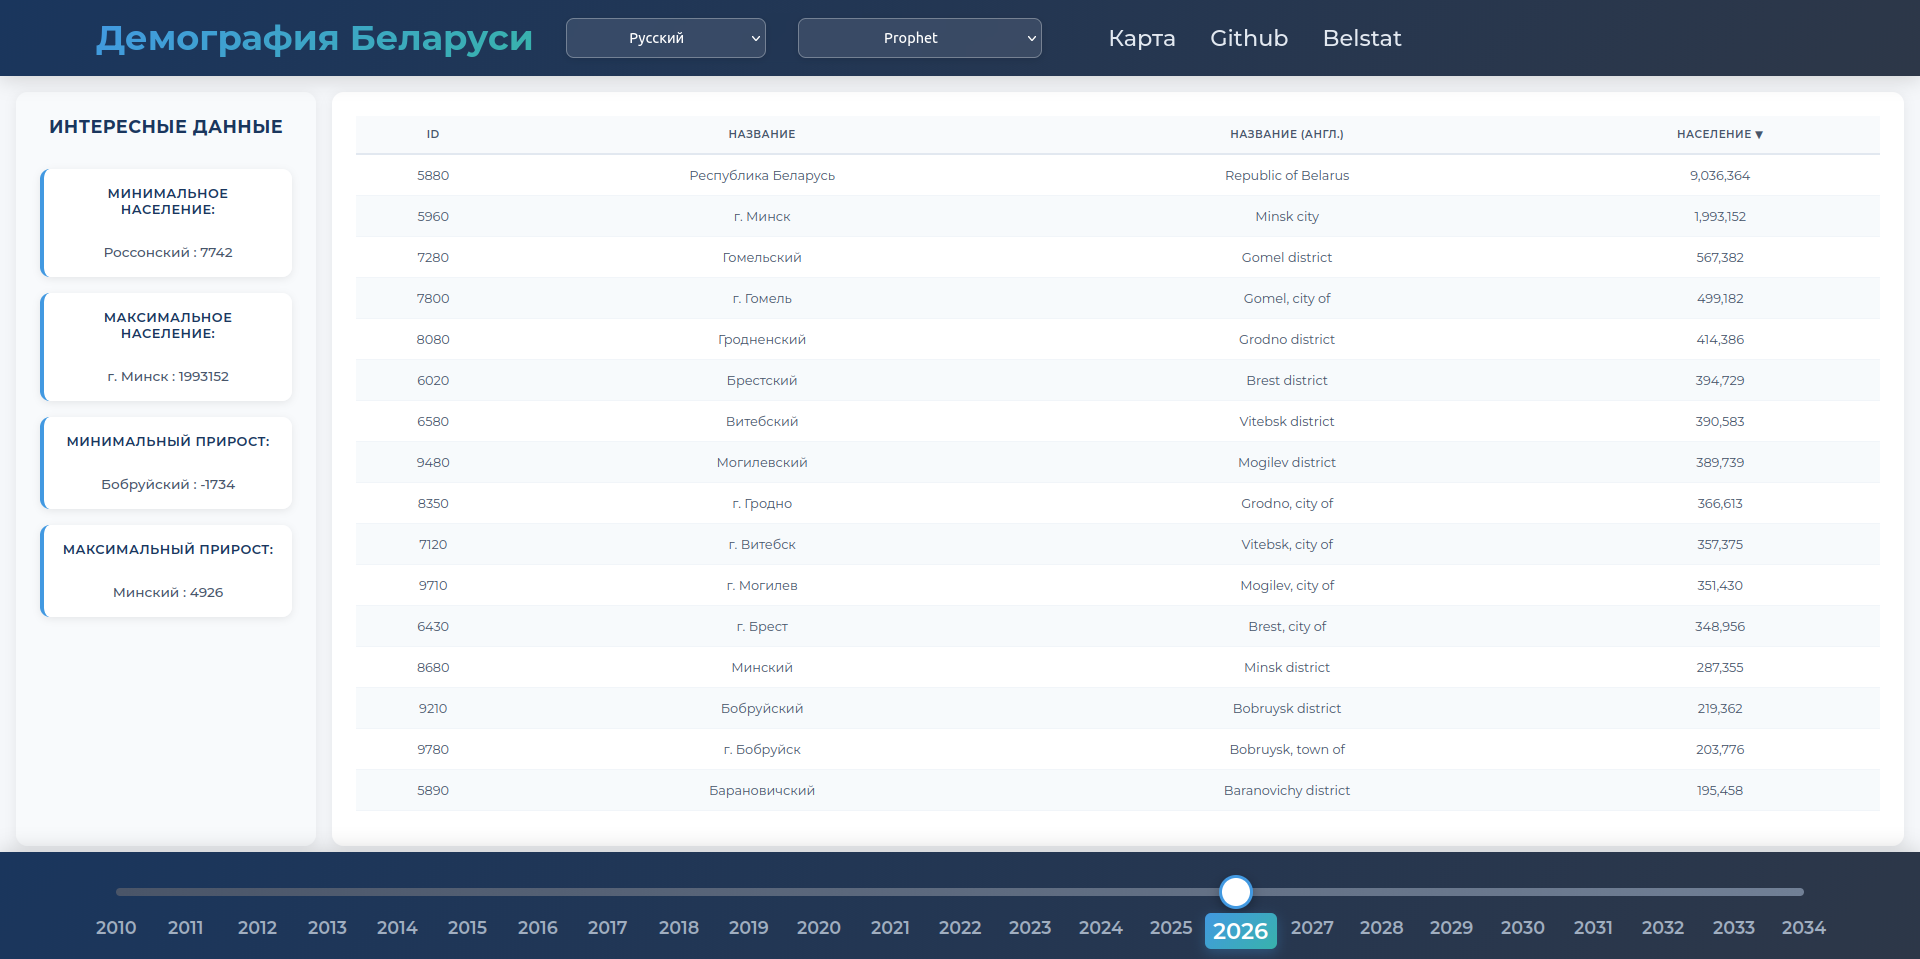
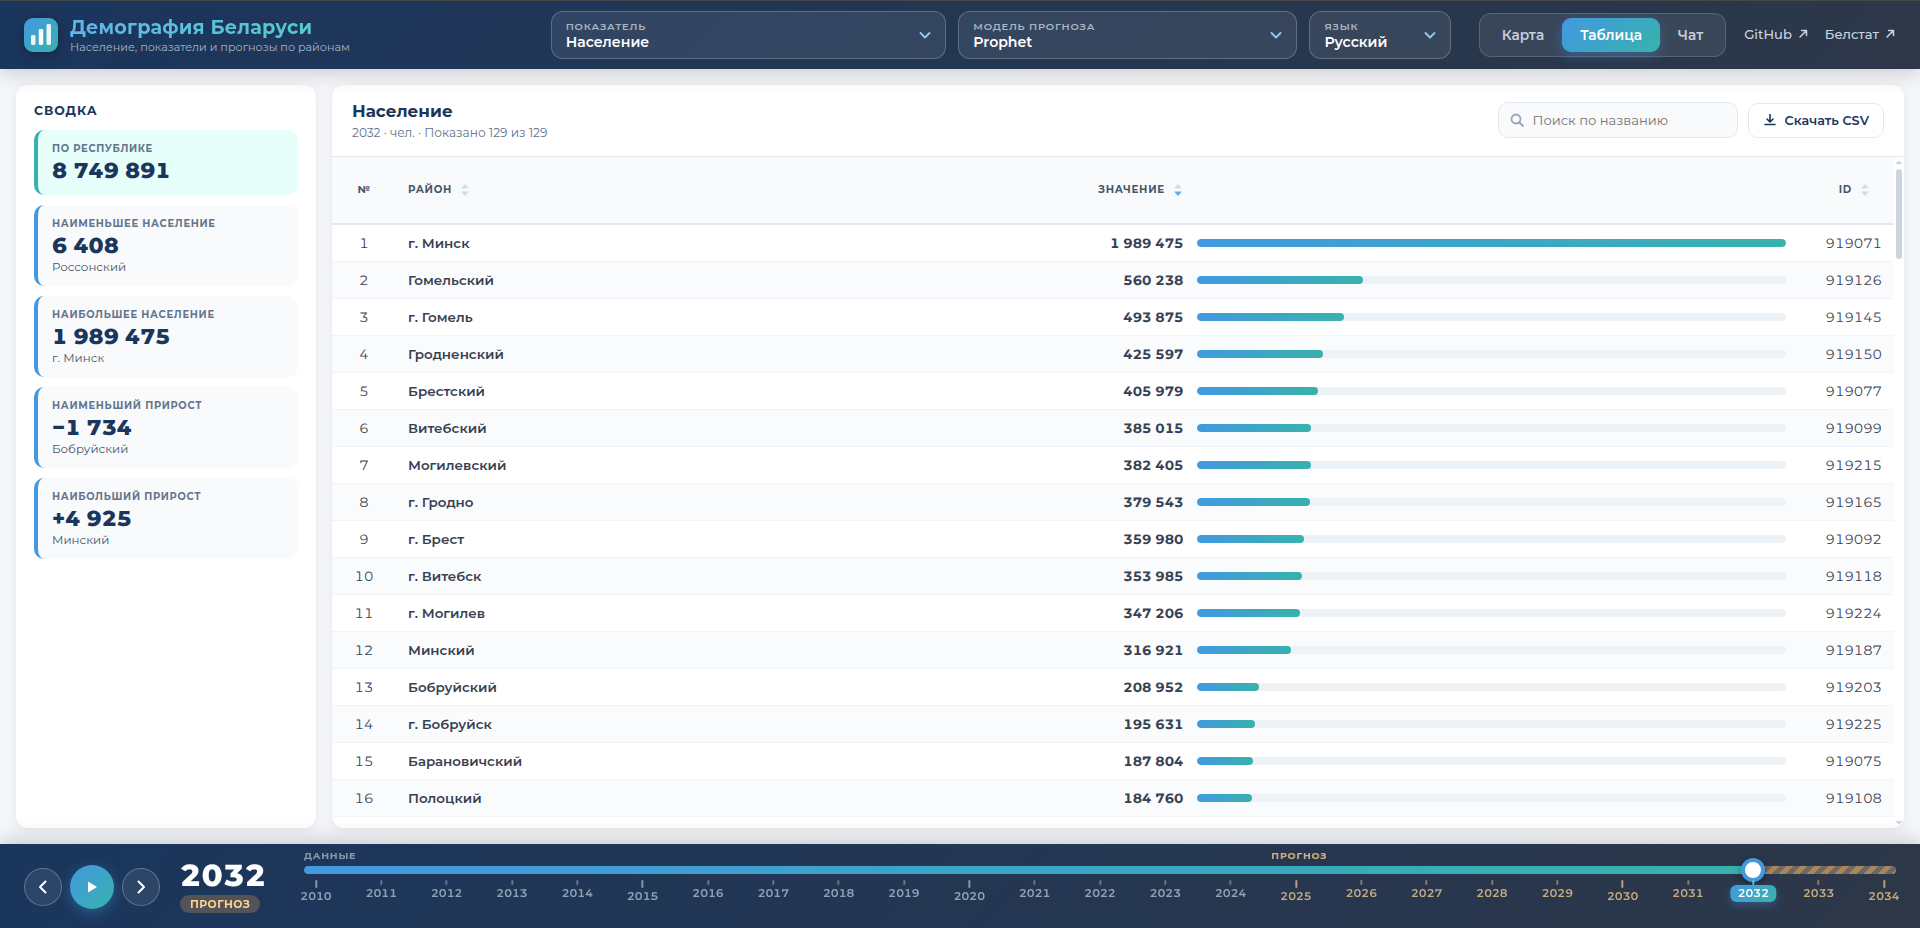
Update README

diff --git a/data/mcp_server/server.py b/data/mcp_server/server.py
@@ -5,7 +5,10 @@
 """
 from typing import Annotated, List, Literal, Optional
 
+import os
+
 from mcp.server.fastmcp import FastMCP
+from mcp.server.transport_security import TransportSecuritySettings
 from pydantic import Field
 from starlette.requests import Request
 from starlette.responses import JSONResponse
@@ -18,7 +21,13 @@ INSTRUCTIONS = """\
 3) get_series / rank_territories / compare_years / region_totals / territory_profile — получить числа.
 Все значения возвращаются как есть из базы; прогнозы помечены source = forecast:<модель>."""
 
-mcp = FastMCP('demography', instructions=INSTRUCTIONS, log_level='WARNING')
+# Разрешаем обращение по имени сервиса из сети compose (иначе «Invalid Host header: mcp:8000»).
+_allowed_hosts = [h.strip() for h in os.getenv('MCP_ALLOWED_HOSTS', 'mcp:*,localhost:*,127.0.0.1:*').split(',') if h.strip()]
+mcp = FastMCP(
+    'demography', instructions=INSTRUCTIONS, log_level='WARNING',
+    transport_security=TransportSecuritySettings(
+        enable_dns_rebinding_protection=True, allowed_hosts=_allowed_hosts, allowed_origins=['*']),
+)
 
 IndicatorArg = Annotated[str, Field(description=(
     "Показатель: код (например '10101200001'), ключ ('births', 'deaths', 'net_migration', 'marriages', "

diff --git a/README.MD b/README.MD
@@ -1,6 +1,7 @@
 # Belarusian demography
-![Map](./images/map.png)
-![Table](./images/table.png)
+![Map](./images/map.jpg)
+![Table](./images/table.jpg)
+![Chat](./images/chat.jpg)
 ## Acomplished tasks:
 - Parsing SDMX-JSON datastructures from belstat. 
 - Fetching data and saving to database.
